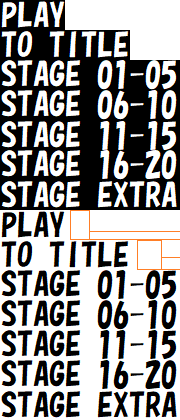
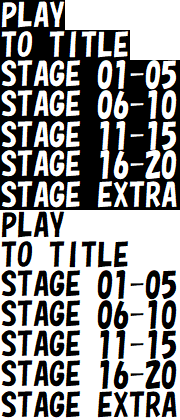
これよりテストプレイに入る

Changed region(s): [[0.75, 0.5571, 0.9167, 0.65], [0.4722, 0.4952, 0.5, 0.5881], [0.3889, 0.4952, 0.4167, 0.5881]]

diff --git a/blockbreak.py b/blockbreak.py
@@ -5,7 +5,7 @@
 # スコアは5ステージごとに設定されている。
 # 一定以上のスコアを出すとチェックが付いて、
 # 全部チェックを付けるとEXTRAが解放される。(21～25, EXTRAとだけ表示)
-# MAXで20位を想定。
+# MAXで20くらいを想定。（25？）
 # 1UPブロックでライフアップ、残りライフもスコアに影響する。
 # 今後：エディタでステージ作れるようにしたい
 # 壊せないブロックをもっと活用したい
@@ -80,20 +80,18 @@ class Play():
         self.ball = ball((232, 368), self.blocks, self.paddle)
 
         self.state = GameState()  # Stateの初期化
-        self.font = pygame.font.SysFont(None, 40)
+        # self.font = pygame.font.SysFont(None, 40)
 
         clock = pygame.time.Clock()
         self.frame = 0
         self.norm = 0  # 壊すべきブロックの数。
         self.score = 0   # スコア
 
-        
-
         while True:
             screen.fill((0, 0, 0))
             clock.tick(60)
             self.update()
-            if not self.state.mState in [TITLE, SELECT, START]:
+            if not self.state.mState in [TITLE, SELECT, START, ALLCLEAR]:
                 self.draw(screen)
             self.state.draw(screen)
             pygame.display.update()
@@ -192,7 +190,7 @@ class Play():
 
         # 各種テキスト
         imageList = self.load_image("TEXTS")
-        widths = [160, 340, 80, 80, 200, 120, 280, 165, 95, 145, 180, 85, 370]
+        widths = [160, 340, 80, 80, 200, 120, 280, 165, 95, 145, 180, 370, 85]
         for i in range(13):
             surface = pygame.Surface((widths[i], 30))
             surface.blit(imageList, (0, 0), (0, 30 * i, widths[i], 30))
@@ -254,6 +252,11 @@ class Play():
                     self.state.mState = PLAY
 
         if self.state.mState == PLAY:
+
+            prev = [0, 0]
+            prev[0] = self.score
+            prev[1] = self.ball.life
+            
             for block in self.blocks:
                 if block.update():
                     if block.kind < 20:
@@ -269,6 +272,9 @@ class Play():
             else:
                 self.score += SCORES[dmg] # グローバルで書いた。
 
+            if prev[0] != self.score: self.state.score_image_update(prev[0], self.score)
+            if prev[1] != self.ball.life: self.state.life_image_update(self.ball.life)
+
     def draw(self, screen):
 
         self.blocks.draw(screen)
@@ -276,10 +282,11 @@ class Play():
         self.ball.draw(screen)
 
         # ↓statusってのを別に用意してそっちで描画する
-        text = self.font.render("life: " + str(self.ball.life), False, (255, 255, 255))
-        screen.blit(text, (0, 0))
-        text = self.font.render("score: " + str(self.score), False, (255, 255, 255))
-        screen.blit(text, (120, 0))
+        # text = self.font.render("life: " + str(self.ball.life), False, (255, 255, 255))
+        # screen.blit(text, (0, 0))
+        # text = self.font.render("score: " + str(self.score), False, (255, 255, 255))
+        # screen.blit(text, (120, 0))
+        self.state.draw_status(screen)
 
         if self.state.mState == GAMEOVER: return
 
@@ -323,8 +330,12 @@ class Play():
 
     def reset(self):
         self.state.mState = TITLE
+
+        self.state.life_image_update(ball.maxlife)    # ライフのイメージを設定。
         self.ball.life = ball.maxlife
+        self.state.score_image_update(self.score, 0)  # 先にイメージを変更しないと。
         self.score = 0
+
         self.state.stage = 1  # ステージを戻す
 
     def load_image(self, filename, flag = False):
@@ -560,9 +571,13 @@ class GameState:
         self.font = pygame.font.SysFont(None, 40)
         self.cursol = 0
         self.stage = 1
-        self.stage_playable = 4  # 5つクリアするたびに1ずつ増えていく感じ。
+        # self.stage_playable = 4  # 5つクリアするたびに1ずつ増えていく感じ。
         self.life_image = []     # ステータスバーに表示する残りライフの画像。
+        for i in range(2):
+            self.life_image.append(self.numbers[0])
         self.score_image = []    # ステータスバーに表示するスコアの画像。
+        for i in range(6):
+            slf.score_image.append(self.numbers[0])
 
     # というわけでこの「drawtext」をなくすのが目標。
     # def drawtext(self, screen, words, location, flag = False):
@@ -572,11 +587,28 @@ class GameState:
     #         text = self.font.render(words, False, (0, 0, 0), (255, 255, 255))
     #     screen.blit(text, location)
 
-    def life_image_update(self, new_life): pass
+    def life_image_update(self, new_life):
         # ライフ画像の更新
+        self.life_image[0] = self.numbers[new_life % 10]
+        self.life_image[1] = self.numbers[new_life // 10]
 
-    def score_image_update(self, old_sc, new_sc): pass
+    def score_image_update(self, old_sc, new_sc):
         # スコア画像の更新
+        i = 0
+        while old_sc != new_sc:
+            if old_sc % 10 != new_sc % 10:
+                self.score_image[i] = self.numbers[new_sc % 10]
+            old_sc //= 10
+            new_sc //= 10
+            i += 1    
+
+    def draw_status(self, screen):
+        screen.blit(self.texts[12], (5, 5))
+        screen.blit(self.texts[8], (144, 5))
+        for i in range(2):
+            screen.blit(self.life_image[1 - i], 90 + 18 * i, 5)
+        for i in range(6):
+            screen.blit(self.score_image[5 - i], 240 + 18 * i, 5)
 
     def draw(self, screen):
         if self.mState == TITLE:
@@ -591,16 +623,20 @@ class GameState:
 
         elif self.mState == SELECT:
             # 選択しているところは黒文字
-            flag = []
-            for i in range((MAX_STAGE // 5) + 1): flag.append(False)
-            flag[self.cursol] = True
-            
-            self.drawtext(screen, "TO  TITLE", (200, 100), flag[0])
+            index = [i + 1 for i in range(6)]
+            index[self.cursol] += 7  # 黒文字
+            # flag = []
+            # for i in range((MAX_STAGE // 5) + 1): flag.append(False)
+            # flag[self.cursol] = True
+
+            screen.blit(self.choices[index[0]], (200, 100)) 
+            # self.drawtext(screen, "TO  TITLE", (200, 100), flag[0])
             for i in range(MAX_STAGE // 5):
-                words = "STAGE " + str((i * 5) + 1) + " - " + str((i + 1) * 5)
+                # words = "STAGE " + str((i * 5) + 1) + " - " + str((i + 1) * 5)
+                screen.blit(self.choices[index[i + 1]], (200, 160 + 40 * i))
                 # 挑戦可能なステージには"*"を付加する
-                if i + 1 <= self.stage_playable: words += " *"
-                self.drawtext(screen, words, (200, 160 + 40 * i), flag[i + 1])
+                # if i + 1 <= self.stage_playable: words += " *"
+                # self.drawtext(screen, words, (200, 160 + 40 * i), flag[i + 1])
 
         elif self.mState == START:
             screen.blit(self.texts[2], (160, 120))
@@ -609,22 +645,32 @@ class GameState:
             # self.drawtext(screen, "STAGE " + str(self.stage), (200, 120))
 
         elif self.mState == PAUSE:
-            self.drawtext(screen, "PAUSE", (200, 120))
-            flag = []
-            if self.cursol == 0: flag = [True, False]
-            else: flag = [False, True]
-            self.drawtext(screen, "PLAY", (240, 200), flag[0])
-            self.drawtext(screen, "TO  TITLE", (240, 240), flag[1])
+            screen.blit(self.texts[3], (200, 120))
+            # self.drawtext(screen, "PAUSE", (200, 120))
+            # flag = []
+            # if self.cursol == 0: flag = [True, False]
+            # else: flag = [False, True]
+            index = [0, 1]
+            index[self.cursol] += 7  # 黒文字
+            screen.blit(self.choices[index[0]], (240, 200))
+            screen.blit(self.choices[index[1]], (240, 240))
+            # self.drawtext(screen, "PLAY", (240, 200), flag[0])
+            # self.drawtext(screen, "TO  TITLE", (240, 240), flag[1])
 
         elif self.mState == GAMEOVER:
-            self.drawtext(screen, "GAME  OVER", (200, 120))
-            self.drawtext(screen, "PRESS  RETURN", (200, 180))
+            screen.blit(self.texts[4], (200, 120))
+            screen.blit(self.texts[1], (120, 180))
+            # self.drawtext(screen, "GAME  OVER", (200, 120))
+            # self.drawtext(screen, "PRESS  RETURN", (200, 180))
 
         elif self.mState == CLEAR:
-            self.drawtext(screen, "CLEAR!!", (200, 120))
+            screen.blit(self.texts[5], (200, 120))
+            # self.drawtext(screen, "CLEAR!!", (200, 120))
             if self.stage % 5 == 0:
-                self.drawtext(screen, "STAGE ALL CLEAR!!", (120, 180))
-            self.drawtext(screen, "PRESS  RETURN", (200, 240))
+                screen.blit(self.texts[6], (120, 180))
+                # self.drawtext(screen, "STAGE ALL CLEAR!!", (120, 180))
+            screen.blit(self.texts[1], (120, 240))
+            # self.drawtext(screen, "PRESS  RETURN", (200, 240))
 
     def keydown_events(self, key):
         if self.mState == TITLE:
@@ -650,7 +696,7 @@ class GameState:
                 if self.cursol == 0:
                     self.mState = TITLE
                 else:
-                    if self.cursol > self.stage_playable: return False
+                    # if self.cursol > self.stage_playable: return False
                     self.mState = START
                     self.stage = (self.cursol * 5) - 4
                     self.cursol = 0
@@ -676,8 +722,8 @@ class GameState:
                 if self.stage % 5 == 1:  # 6, 11, ...の時にリセット。
                     self.mState = TITLE
                     # 次のステージに行けるようにする。
-                    self.stage_playable = max(self.stage_playable, (self.stage // 5) + 1)
-                    self.stage_playable = min(self.stage_playable, MAX_STAGE // 5)
+                    # self.stage_playable = max(self.stage_playable, (self.stage // 5) + 1)
+                    # self.stage_playable = min(self.stage_playable, MAX_STAGE // 5)
                     return True  # stageはこっちで1に戻す感じ。
                 else:
                     self.mState = START; return False
